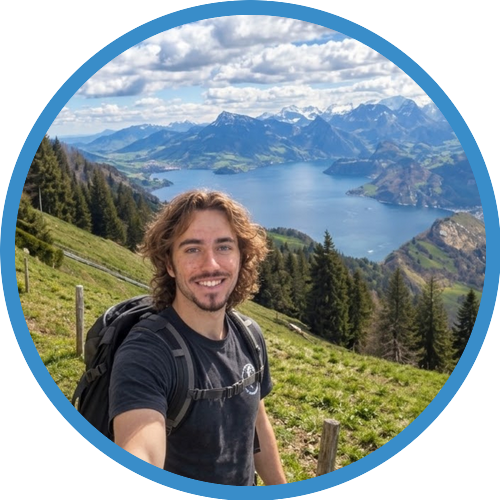
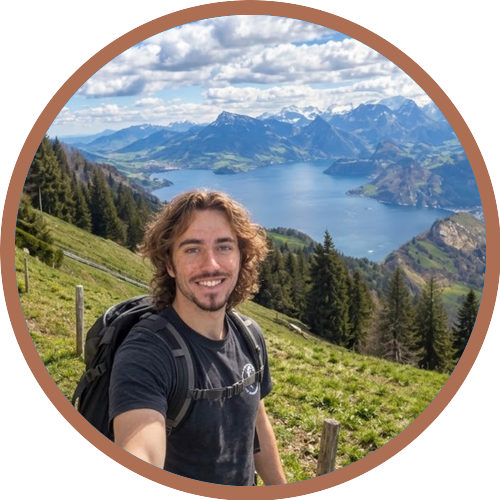
Recolor photo border to a warm bronze matching the header photo; change section heading color from theme green to a deep navy blue
Claude-Session: https://claude.ai/code/session_01Ep5qJtRetdGoVQ4xhngbLw

Changed region(s): [[0.0, 0.0, 1.0, 1.0]]

diff --git a/assets/css/style.scss b/assets/css/style.scss
@@ -1,6 +1,8 @@
 ---
 ---
 
+$section-headings-color: #1b3a5c;
+
 @import "jekyll-theme-cayman";
 
 .page-header {
